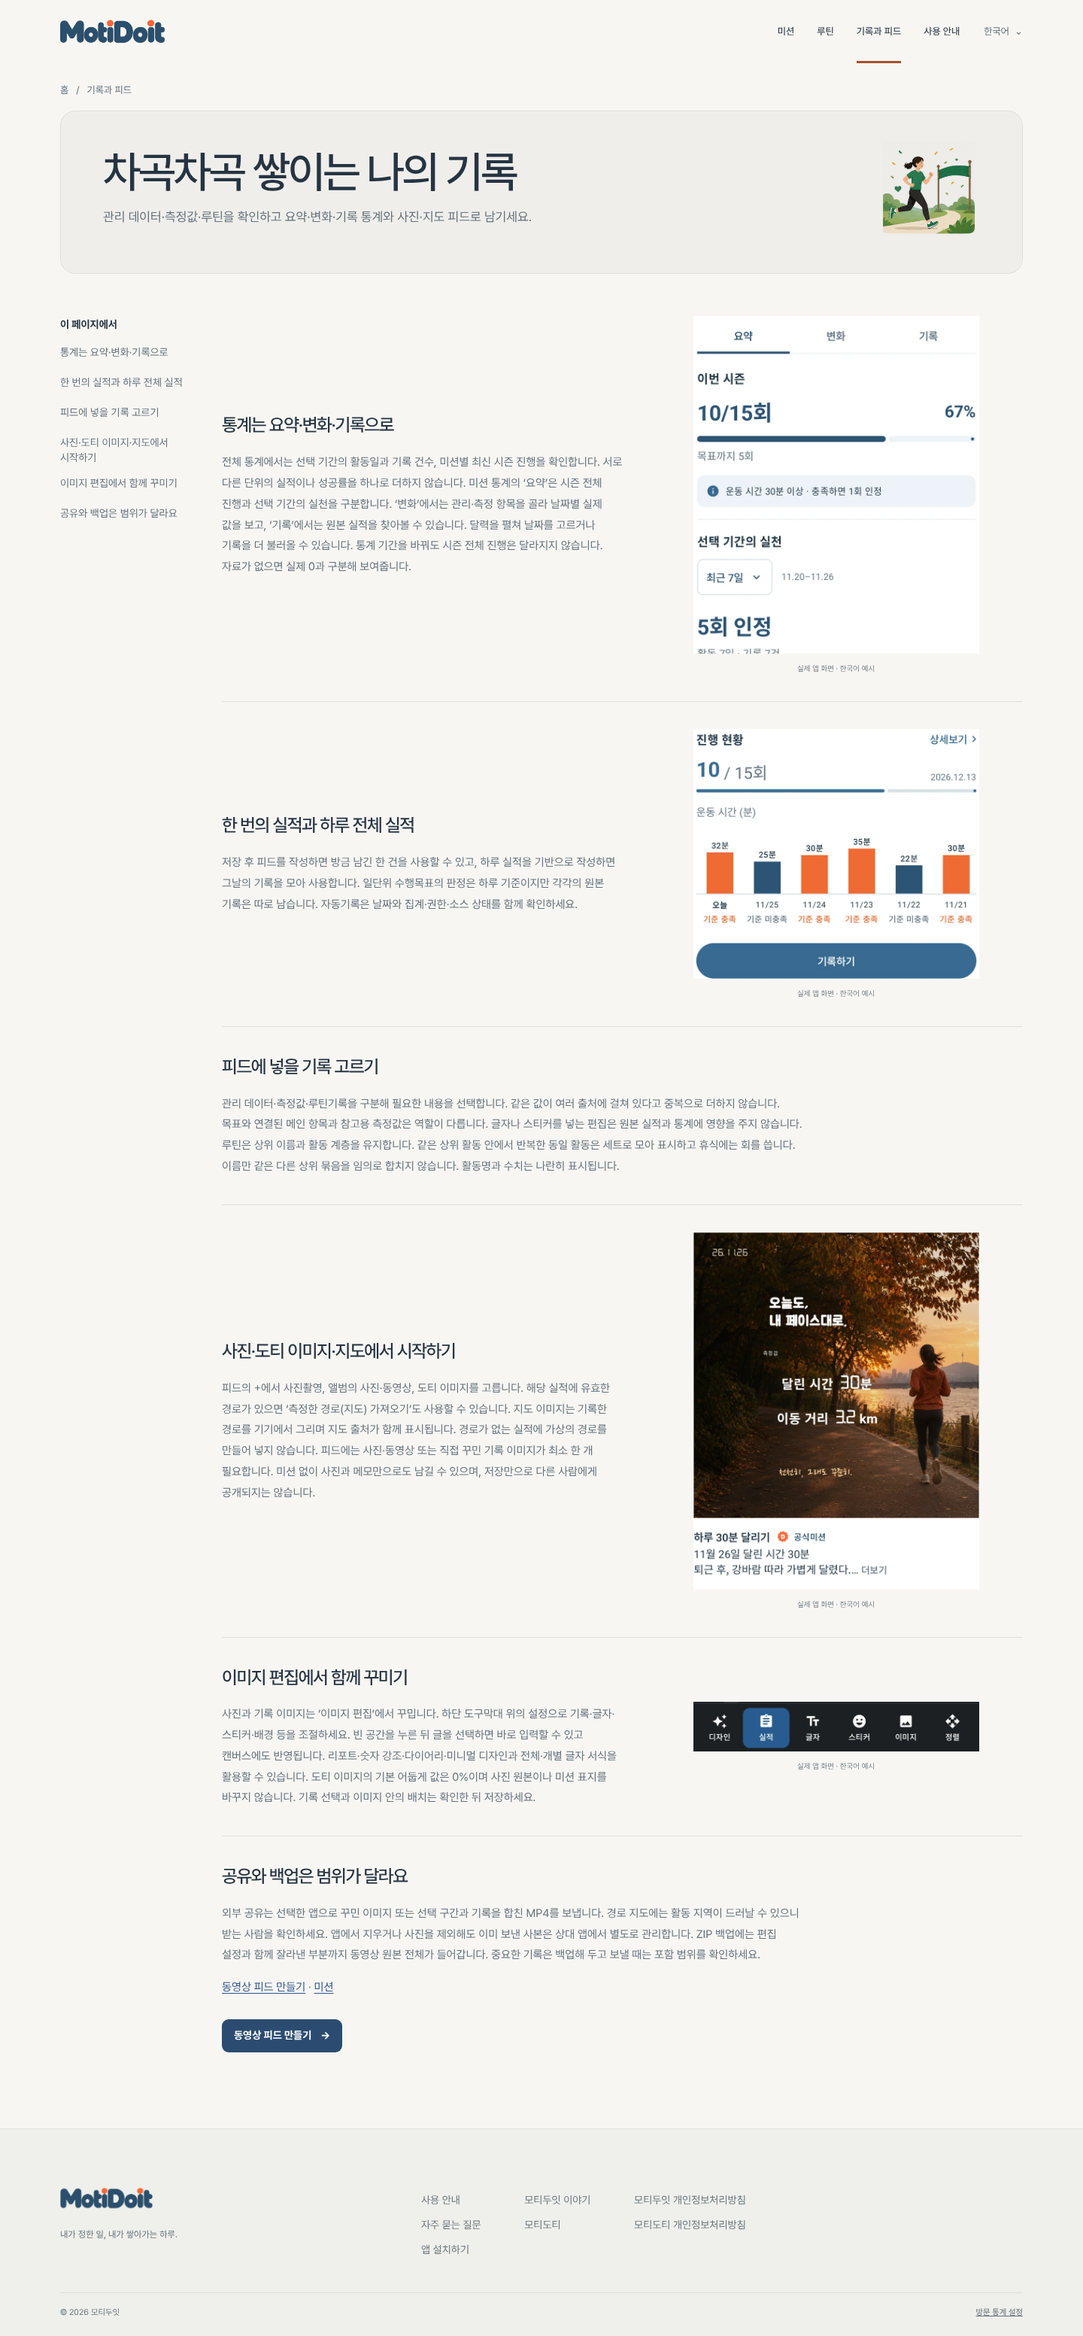
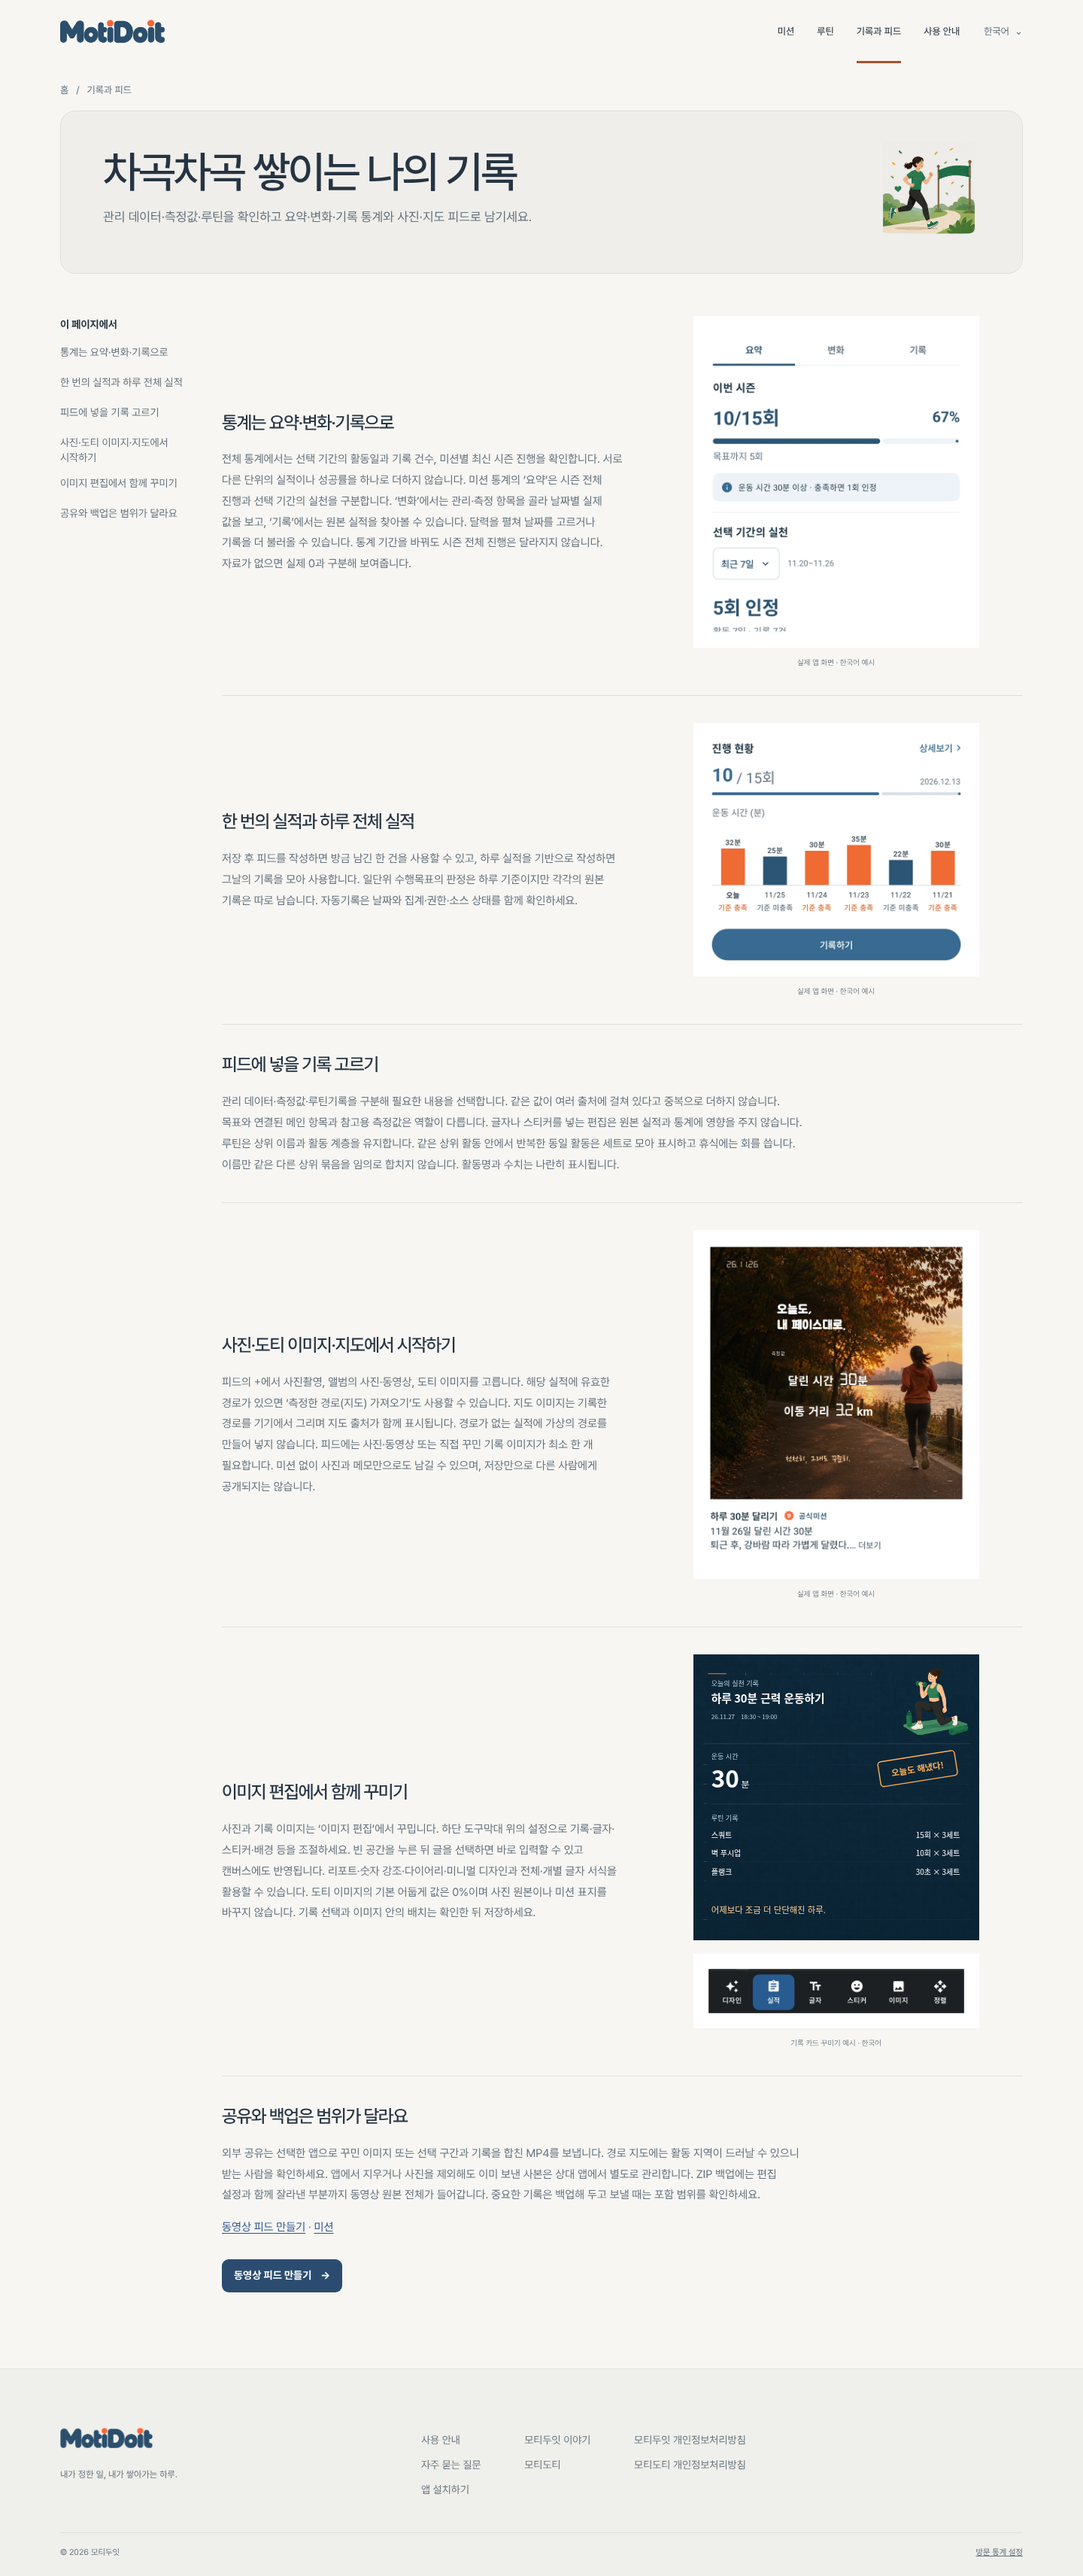
여백과 기록카드 예시 공개 배포 및 실제 화면 검증 기록

diff --git a/docs/2026-11-27-native-ui-and-simple-guides.md b/docs/2026-11-27-native-ui-and-simple-guides.md
@@ -63,3 +63,10 @@
 
 - 입체 UI·아이콘·안내 간소화 dcbdd6f는 [Pages45963468911](https://github.com/kizwond/doti_doit_web/actions/runs/45963468911)에서 성공했고 공개8개 화면/너비와4개 파일 전체 해시를 확인했다.
 - 캡처 여백과 편집 예시의 후속 배포는 아래 최종 공개 확인 기록을 따른다. 앱 소스 원복/푸시 상태는 그대로 유지한다.
+
+## 최종 공개 확인
+
+- 최종 소스 `6a594f0`, [Pages45964344406](https://github.com/kizwond/doti_doit_web/actions/runs/45964344406) 성공. [공개 홈페이지](https://kizwond.github.io/doti_doit_web/)에 적용했다.
+- 공개 홈·미션·루틴·기록과 피드 ×390/1440px 총8개 조합에서 화면 넘침 없음, 이미지 로딩, 단순한 안내 구분선/목차, 설치 링크와 편집 예시+도구막대를 확인했다.
+- 공개 응답의 CSS·아이콘·히어로·모든 발췌/예시 자산 18개의 전체 파일 해시가 로컬 최종 파일과 일치했다. [공개 검증](qa/2026-11-27-guide-simplification/public-verification.json).
+- 후속 여백 변경의 공개 빌드91페이지/3786개 로컬 참조 검사 통과. 두 앱 저장소는 원복 커밋에서 깨끗하며 upstream과0/0이었다. 이 후속 배포는 홈페이지에만 적용한다.
